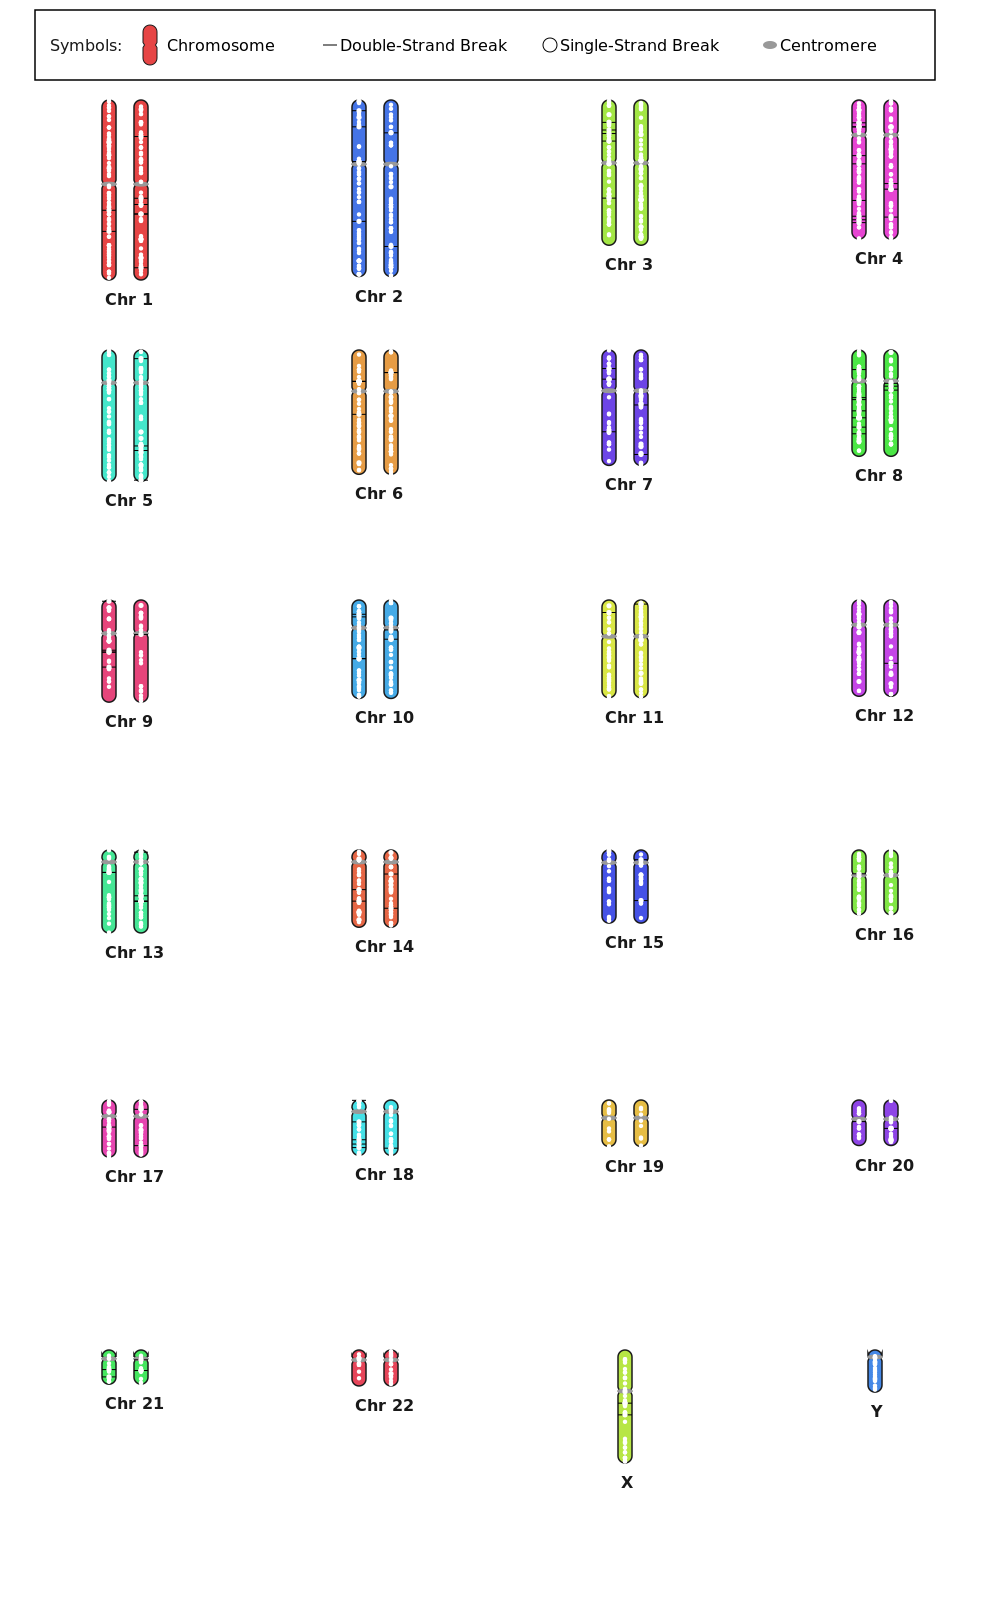
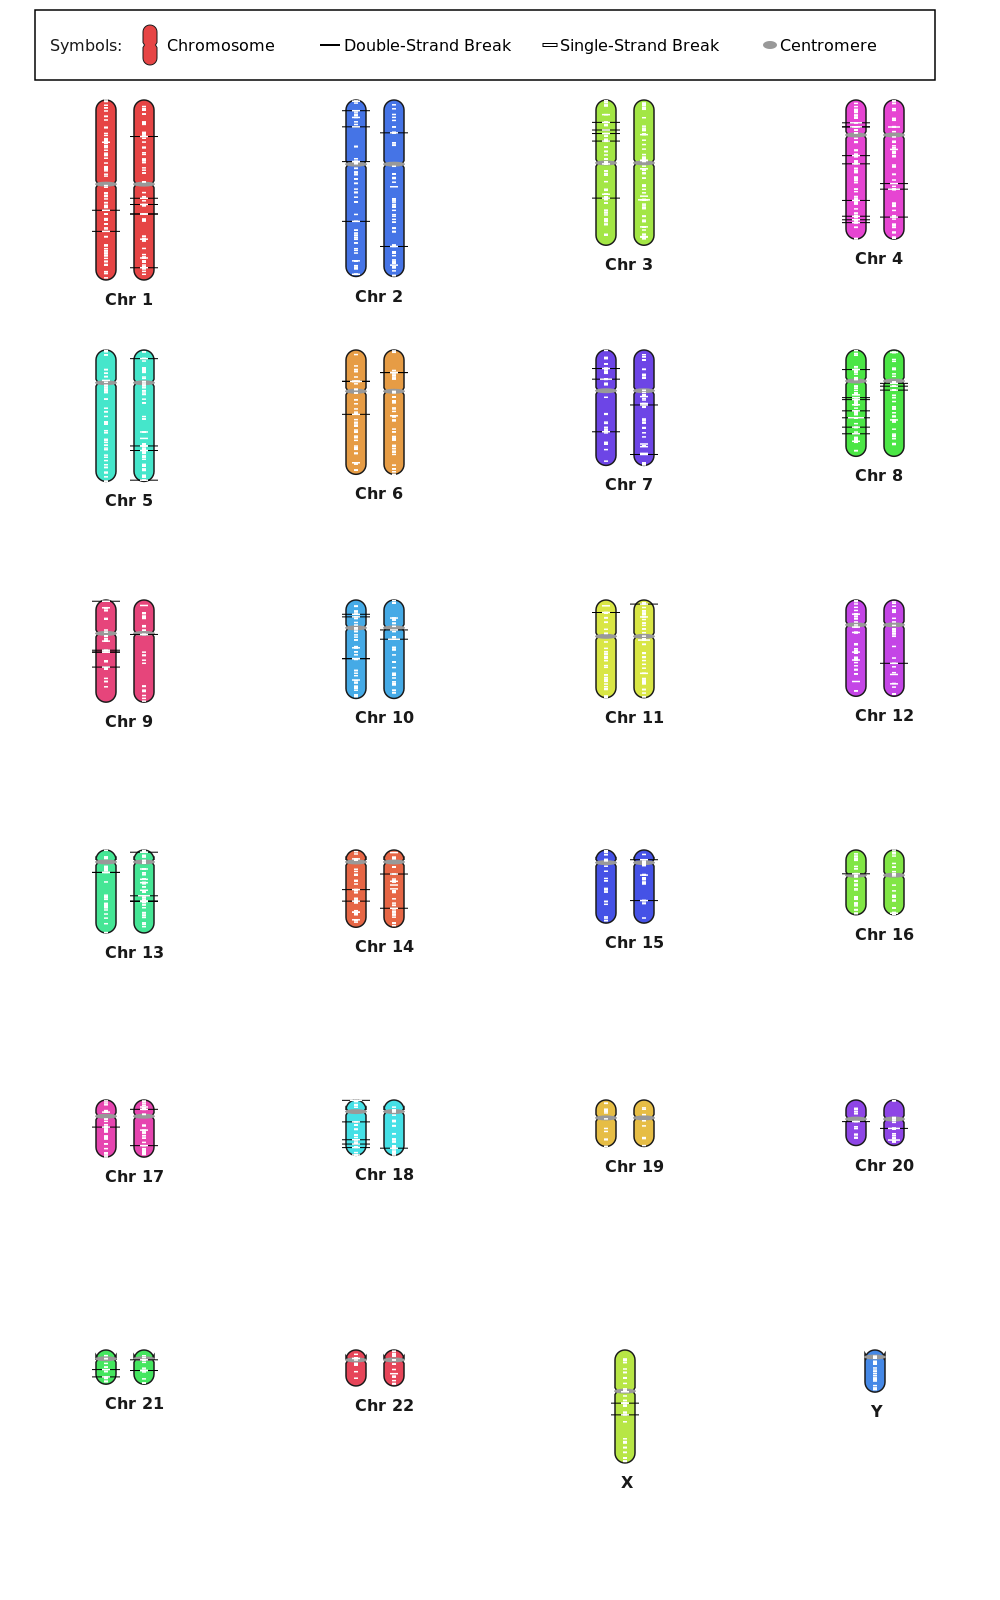
Changed SSB marker length scaling and DSB markers in the Karyogram, and chromosome thicknesses for clarity

diff --git a/source/Karyogram.cpp b/source/Karyogram.cpp
@@ -149,7 +149,7 @@ bool Karyogram::generateKaryogram(						// Function that generates the overall K
     const int rows = (homologousPairs + columns - 1) / columns;			// Determine number of rows based on number of chromosomes passed.
     const int imgHeight = static_cast<int>(startY + rows * rowHeight);		// Adjust image height based on the number of rows, also in pixels.
     const double maxRenderHeight = 180.0;					// Limit the maximum height of the image, also in pixels
-    const double chromosomeWidth = 14.0;					// Individual chromosomes are 14 pixels wide.
+    const double chromosomeWidth = 20.0; // was 14					// Individual chromosomes are 14 pixels wide.
     const double chromatidGap = 1.5;						// The gaps between homologs in a replicated chromosome are 1.5 pixels.
     
 
@@ -259,8 +259,8 @@ bool Karyogram::generateKaryogram(						// Function that generates the overall K
     	    double rightChromosomeX = groupCenterX + (homologGap / 2.0);		// Right homolog position
 
 	    // Draw homologous pair at the desired coordinates with the desired heights, color, and centromere positions.
-	    drawChromosome(cr, leftChromosomeX, posY, firstHeight, chromosomeColor, firstCentromereStart, firstCentromereEnd); 
-	    drawChromosome(cr, rightChromosomeX, posY, secondHeight, chromosomeColor, secondCentromereStart, secondCentromereEnd);
+	    drawChromosome(cr, leftChromosomeX, posY, firstHeight, chromosomeWidth, chromosomeColor, firstCentromereStart, firstCentromereEnd); 
+	    drawChromosome(cr, rightChromosomeX, posY, secondHeight, chromosomeWidth, chromosomeColor, secondCentromereStart, secondCentromereEnd);
 
 	    // Store chromosome geometry (pixel coordinates) to draw corresponding chromosome damages from exposure data.
 	    chromosomeGeometry.push_back({i + 1, 1, leftChromosomeX, posY, firstHeight});
@@ -285,12 +285,12 @@ bool Karyogram::generateKaryogram(						// Function that generates the overall K
     	    double rightChromatid2X = rightChromatid1X + chromosomeWidth + chromatidGap;
 
 	    // Draw homologue 1
-	    drawChromosome(cr, leftChromatid1X, posY, firstHeight, chromosomeColor, firstCentromereStart, firstCentromereEnd);
-	    drawChromosome(cr, leftChromatid2X, posY, firstHeight, chromosomeColor, firstCentromereStart, firstCentromereEnd);
+	    drawChromosome(cr, leftChromatid1X, posY, firstHeight, chromosomeWidth, chromosomeColor, firstCentromereStart, firstCentromereEnd);
+	    drawChromosome(cr, leftChromatid2X, posY, firstHeight, chromosomeWidth, chromosomeColor, firstCentromereStart, firstCentromereEnd);
 
     	    // Draw homologue 2
-	    drawChromosome(cr, rightChromatid1X, posY, secondHeight, chromosomeColor, secondCentromereStart, secondCentromereEnd);
-	    drawChromosome(cr, rightChromatid2X, posY, secondHeight, chromosomeColor, secondCentromereStart, secondCentromereEnd);
+	    drawChromosome(cr, rightChromatid1X, posY, secondHeight, chromosomeWidth, chromosomeColor, secondCentromereStart, secondCentromereEnd);
+	    drawChromosome(cr, rightChromatid2X, posY, secondHeight, chromosomeWidth, chromosomeColor, secondCentromereStart, secondCentromereEnd);
 
 	    // Store drawn chromosome geometries (pixel coordinates) to draw corresponding damages from exposure data.
 	    chromosomeGeometry.push_back({i + 1, 1, leftChromatid1X, posY, firstHeight});		// Homolog 1 chromatid 1
@@ -381,8 +381,8 @@ bool Karyogram::generateKaryogram(						// Function that generates the overall K
     const double xGroupCenterX = (xColumn * colWidth) + (colWidth / 2.0);
     const double yGroupCenterX = (yColumn * colWidth) + (colWidth / 2.0);
     const double sexChromosomeY = startY + (sexChromosomeRow * rowHeight);
-    const double xChromosomeX = xGroupCenterX - 7.0;
-    const double yChromosomeX = yGroupCenterX - 7.0;
+    const double xChromosomeX = xGroupCenterX - chromosomeWidth / 2.0;
+    const double yChromosomeX = yGroupCenterX - chromosomeWidth / 2.0;
 
 
     // Set X and Y chromosome Colors
@@ -392,12 +392,12 @@ bool Karyogram::generateKaryogram(						// Function that generates the overall K
     if (!doubleChromatid)							// Depending on if SDD header 'Cell cycle phase' specified a post-replicated chromosome.
     {
     	// Draw X
-    	drawChromosome(cr, xChromosomeX, sexChromosomeY, xHeight, xColor, xCentromereStart, xCentromereEnd);
+    	drawChromosome(cr, xChromosomeX, sexChromosomeY, xHeight, chromosomeWidth, xColor, xCentromereStart, xCentromereEnd);
 	// Store geometry of X chromosome for DSB drawing
 	chromosomeGeometry.push_back({chromosomeCount, 1, xChromosomeX, sexChromosomeY, xHeight});
 
         // Draw Y
-        drawChromosome(cr, yChromosomeX, sexChromosomeY, yHeight, yColor, yCentromereStart, yCentromereEnd);
+        drawChromosome(cr, yChromosomeX, sexChromosomeY, yHeight, chromosomeWidth, yColor, yCentromereStart, yCentromereEnd);
 	// Store geometry of Y chromosome for DSB drawing
 	chromosomeGeometry.push_back({chromosomeCount - 1, 1, yChromosomeX, sexChromosomeY, yHeight});
 
@@ -405,17 +405,17 @@ bool Karyogram::generateKaryogram(						// Function that generates the overall K
     else
     {
 	// Draw X chromatids 1 and 2
-	drawChromosome(cr, xChromosomeX, sexChromosomeY, xHeight, xColor, xCentromereStart, xCentromereEnd);
+	drawChromosome(cr, xChromosomeX, sexChromosomeY, xHeight, chromosomeWidth, xColor, xCentromereStart, xCentromereEnd);
 	drawChromosome(cr, xChromosomeX + chromosomeWidth + chromatidGap,
-		       sexChromosomeY, xHeight, xColor, xCentromereStart, xCentromereEnd);
+		       sexChromosomeY, xHeight, chromosomeWidth, xColor, xCentromereStart, xCentromereEnd);
 	// Store X chromatids 1 and 2 geometries for DSB drawing
 	chromosomeGeometry.push_back({chromosomeCount, 1, xChromosomeX, sexChromosomeY, xHeight});
  	chromosomeGeometry.push_back({chromosomeCount, 2, xChromosomeX + chromosomeWidth + chromatidGap, sexChromosomeY, xHeight});
 
         // Draw Y chromatids 1 and 2
-        drawChromosome(cr, yChromosomeX, sexChromosomeY, yHeight, yColor, yCentromereStart, yCentromereEnd);
+        drawChromosome(cr, yChromosomeX, sexChromosomeY, yHeight, chromosomeWidth, yColor, yCentromereStart, yCentromereEnd);
         drawChromosome(cr, yChromosomeX + chromosomeWidth + chromatidGap, 
-		       sexChromosomeY, yHeight, yColor, yCentromereStart, yCentromereEnd);
+		       sexChromosomeY, yHeight, chromosomeWidth, yColor, yCentromereStart, yCentromereEnd);
 
 	// Store Y chromatids 1 and 2 geometries for DSB drawing
 	chromosomeGeometry.push_back({chromosomeCount - 1, 1, yChromosomeX, sexChromosomeY, yHeight});
@@ -471,7 +471,7 @@ bool Karyogram::generateKaryogram(						// Function that generates the overall K
             // ------------------------------------------
             // Convert fraction to image pixel coordinates
             // ------------------------------------------
-            const double markerX = geometry.x + chromosomeWidth / 2.0;
+            const double markerX = geometry.x + chromosomeWidth / 2.0;	
             const double markerY = geometry.y + damageFraction * geometry.height;
 
             // ------------------------------------------
@@ -536,11 +536,23 @@ bool Karyogram::generateKaryogram(						// Function that generates the overall K
 
             const double markerY = geometry.y + damageFraction * geometry.height;
 
+
+	    // ------------------------------------------
+	    // Determine SSB marker length
+	    // ------------------------------------------
+
+	    const double ssbBaseLength = 4.0;						// Scaling single-strand break line length based on number of damages in the damage site
+    	    const double ssbLengthPerBreak = 4.0;					// Marker length per individual single-strand break to be summed over the whole site
+    	    const double maxSSBLength = chromosomeWidth;				// Maximum single-strand break marker length is the width of the chromosome
+
+	    double markerLength = ssbBaseLength + ssbLengthPerBreak * (ssb.numSingleStrandBreaks - 1);
+	    markerLength = std::min(markerLength, maxSSBLength);
+
             // ------------------------------------------
             // Draw SSB marker
             // ------------------------------------------
 
-            drawSingleStrandBreakMarker(cr, markerX, markerY, ssb.numSingleStrandBreaks);
+            drawSingleStrandBreakMarker(cr, markerX, markerY, markerLength);
 
             break;
     	}
@@ -587,6 +599,7 @@ void Karyogram::drawChromosome(
     double x,						// Pixel X coordinate
     double y,						// Pixel Y coordinate
     double height,					// Scaled chromosome pixel height
+    double width,					// Chromosome width in pixels
     RGB color,						// Associated chromosome color
     double centromereStart,				// Centromere start location as fraction of the chromosome length from p arm to q arm
     double centromereEnd)				// Centromere end location as fraction of the chromosome length from p arm to q arm.
@@ -595,12 +608,11 @@ void Karyogram::drawChromosome(
     // --------------------------------------
     // Centromere position and dimensions
     // --------------------------------------
-    const double width = 14.0;
     const double capRadius = width / 2.0;
     const double centromereCenter = (centromereStart + centromereEnd) / 2.0;
     const double centromereY = y + (height * centromereCenter);
-    const double constrictionHeight = 8.0;
-    const double constrictionAmount = 1.5;
+    const double constrictionHeight = 7.0;
+    const double constrictionAmount = 2.0;
     const double constrictionTop = centromereY - constrictionHeight / 2.0;
     const double constrictionBottom = centromereY + constrictionHeight / 2.0;
 
@@ -818,7 +830,7 @@ void Karyogram::drawDoubleStrandBreakMarker(
     double chromosomeWidth)
 {
 
-    const double markerWidth = chromosomeWidth;
+    const double markerWidth = chromosomeWidth + 8.0; // Extend DSB markers past the chromosome width for clarity.
     const double markerLineWidth = 1.0;
 
     // Black DSB line marker
@@ -851,7 +863,7 @@ void Karyogram::drawDoubleStrandBreakMarker(
 }
 
 
-void Karyogram::drawSingleStrandBreakMarker(
+/*void Karyogram::drawSingleStrandBreakMarker(
     cairo_t* cr,
     double x,
     double y,
@@ -892,6 +904,40 @@ void Karyogram::drawSingleStrandBreakMarker(
 
     cairo_fill(cr);
 }
+*/
+
+
+void Karyogram::drawSingleStrandBreakMarker(
+    cairo_t* cr,
+    double x,
+    double y,
+    double markerLength)
+{
+    // White SSB marker
+    cairo_set_source_rgb(
+        cr,
+        1.0,
+        1.0,
+        1.0
+    );
+
+    cairo_set_line_width(cr, 1.5);
+
+    cairo_move_to(
+        cr,
+        x - markerLength / 2.0,
+        y
+    );
+
+    cairo_line_to(
+        cr,
+        x + markerLength / 2.0,
+        y
+    );
+
+    cairo_stroke(cr);
+}
+
 
 
 
@@ -1127,17 +1173,17 @@ void Karyogram::drawLegend(cairo_t* cr)
         0.0
     );
 
-    cairo_set_line_width(cr, 1.0);
+    cairo_set_line_width(cr, 2.0);
 
     cairo_move_to(
     	cr,
-    	dsbX - 7.0,
+    	dsbX - 10.0,
     	dsbY
     );
 
     cairo_line_to(
     	cr,
-    	dsbX + 7.0,
+    	dsbX + 10.0,
     	dsbY
     );
 
@@ -1153,7 +1199,7 @@ void Karyogram::drawLegend(cairo_t* cr)
 
     cairo_move_to(
         cr,
-        dsbX + 10.0,
+        dsbX + 14.0,
         textBaseline
     );
 
@@ -1162,48 +1208,45 @@ void Karyogram::drawLegend(cairo_t* cr)
         "Double-Strand Break"
     );
 
+// --------------------------------------------------
+// Single-Strand Break symbol
+// --------------------------------------------------
 
-    // --------------------------------------------------
-    // Single-Strand Break symbol
-    // --------------------------------------------------
-    double markerRadius = 7.0;
+const double ssbX = 550.0;
+const double ssbY = legendCenterY;
 
-    const double ssbX = 550.0;
+const double ssbMarkerWidth = 14.0;
+const double ssbMarkerHeight = 3.0;
 
-    const double ssbY = legendCenterY;
+// Draw white rectangle
+cairo_rectangle(
+    cr,
+    ssbX - ssbMarkerWidth / 2.0,
+    ssbY - ssbMarkerHeight / 2.0,
+    ssbMarkerWidth,
+    ssbMarkerHeight
+);
 
-    cairo_new_path(cr);
+cairo_set_source_rgb(
+    cr,
+    1.0,
+    1.0,
+    1.0
+);
 
-    // White SSB marker
-    cairo_set_source_rgb(
-        cr,
-        1.0,
-        1.0,
-        1.0
-    );
+cairo_fill_preserve(cr);
 
-    cairo_arc(
-        cr,
-        ssbX,
-        ssbY,
-        markerRadius,
-        0.0,
-        2.0 * M_PI
-    );
+// Black outline
+cairo_set_source_rgb(
+    cr,
+    0.0,
+    0.0,
+    0.0
+);
 
-    cairo_fill_preserve(cr);
+cairo_set_line_width(cr, 1.0);
 
-    // Black SSB marker outline for clarity
-    cairo_set_source_rgb(
-        cr,
-        0.0,
-        0.0,
-        0.0
-    );
-
-    cairo_set_line_width(cr, 1.0);
-
-    cairo_stroke(cr);
+cairo_stroke(cr);
 
     // SSB label
     cairo_set_source_rgb(

diff --git a/include/Karyogram.h b/include/Karyogram.h
@@ -50,7 +50,7 @@ private:
 
     RGB generateChromosomeColor(int chromosomeNumber); 	// Function to generate chromosome colors depending on the number of chromosomes, and to choose colors that are different enough between successive chromosomes. 
 
-    void drawChromosome(cairo_t* cr, double x, double y, double height, RGB color, double centromereStart, double centromereEnd); // The main draw chromosome function, accounting for individual chromosome sizes and centromere ranges and locations.
+    void drawChromosome(cairo_t* cr, double x, double y, double height, double width, RGB color, double centromereStart, double centromereEnd); // The main draw chromosome function, accounting for individual chromosome sizes and centromere ranges and locations.
 
     std::vector<DamageLocation> getDoubleStrandBreaks(const std::vector<Exposure>& exposures); // Use to obtain the stored double strand break locations in each exposure and determine their coordinates on the Karyogram. 
 
@@ -60,7 +60,7 @@ private:
 
     void drawDoubleStrandBreakMarker(cairo_t* cr, double x, double y, double chromosomeWidth);				// Function to draw the damage locations at a given x and y coordinate on the Karyogram, the entire width of the drawn chromosome.
 
-    void drawSingleStrandBreakMarker(cairo_t* cr, double x, double y, int numSingleStrandBreaks);
+    void drawSingleStrandBreakMarker(cairo_t* cr, double x, double y, double markerLength);
 
     const CentromerePosition* getHumanCentromere(int chromosomeID);		// Returns a chromosome's corresponding centromere start and end locations to draw the centromere ellipse on the karyogram.
 

diff --git a/README.md b/README.md
@@ -48,10 +48,11 @@ not of human origin (i.e. not 46 chromosomes), the user must specify the 'other'
 2. Centromeric positions using the '--karyogram human' option are adjusted based on the chromosome being drawn, whereas non-human genomes will
 be drawn using the generic centromere locations at approximately 35% of the chromosomes length. 
 3. Double-strand breaks are denoted using black circles directly on the chromosomes themselves.
-4. Single-strand breaks are denoted using white circles on the chromosomes and the circle sizes are
-scaled based on the number of single-strand breaks within a given damage site (within a given SDD data row). 
+4. Single-strand breaks are denoted using white lines on the chromosomes and the line lengths are
+scaled based on the number of single-strand breaks within a given damage site (i.e. a given SDD data row) (usually between 0-5 SSBs). 
 5. Legend at the top to describe what each symbol signifies in the karyogram.
 
 FURTHER KARYOGRAM PLOTTING WORK:
 1. Add a zoom in and out and a panning option to conserve image quality. 
+2. Be able to read a Standard for DNA repair (SDR) file and plot the mutations on the Karyogram.
 ... and much more.
